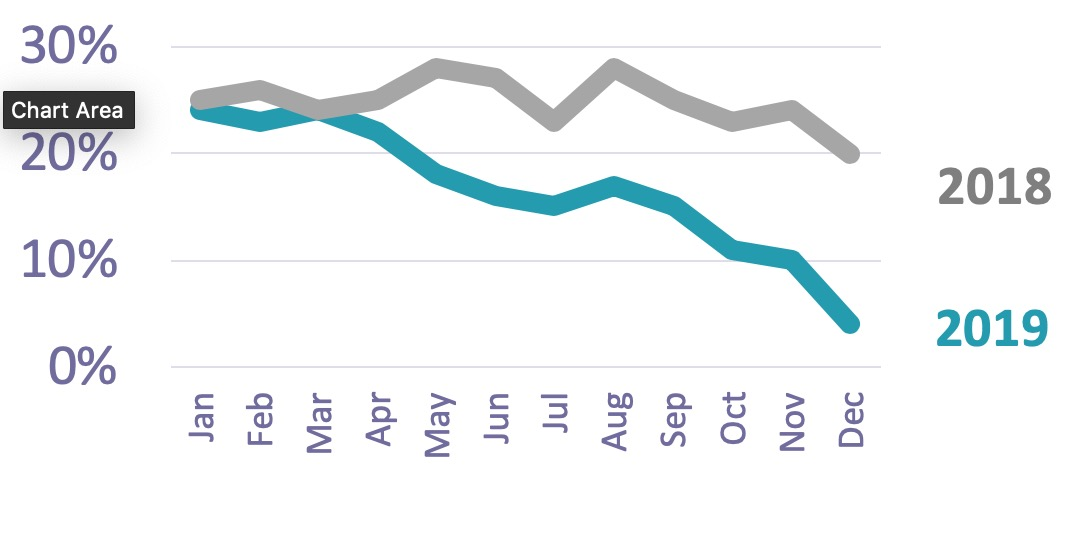
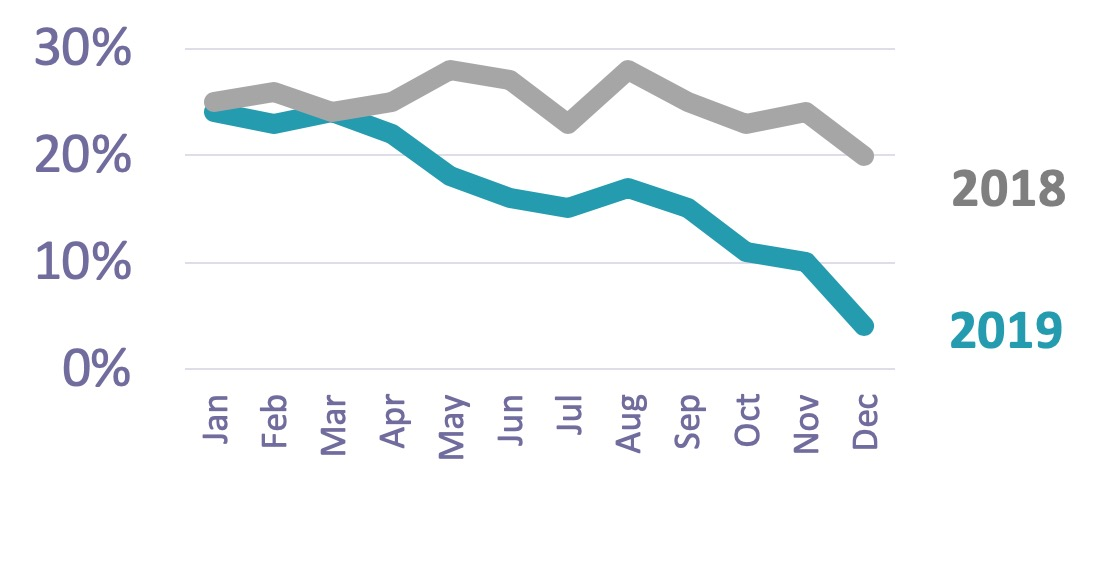
Fix typo, bold final, and upload new image

diff --git a/index.html b/index.html
@@ -257,12 +257,12 @@
 				<h1 style="color: #0C1C47">Actionable Data and Reporting</h1>
 				<div class="row" >
 					<div class="col-md-6">
-						<h3 style="font-size: 2rem;">Travler Dashboard</h3>
+						<h3 style="font-size: 2rem;">Traveler Dashboard</h3>
 						<img src="img/screenshot1.jpg" alt="">
 					</div>
 						<div class="col-md-6">
 							<h3 style="font-size: 2rem;">Road Warrior Attrition Rate</h3>
-							<img src="img/screenshot2.jpg" alt="">
+							<img src="img/screenshot2.jpg?123" alt="">
 					</div>
 						</div>
 						<div class="row" style="font-size: 1.3rem; margin-bottom: 150px">
@@ -291,7 +291,7 @@
 								</div>
 							</div>
 							<div class="col-md-3">
-								<div style="font-size:3rem; color:#189bb0">
+								<div style="font-size:3rem; color:#189bb0; font-weight: 900">
 									= €2.8MM
 								</div>
 								<div class="">
